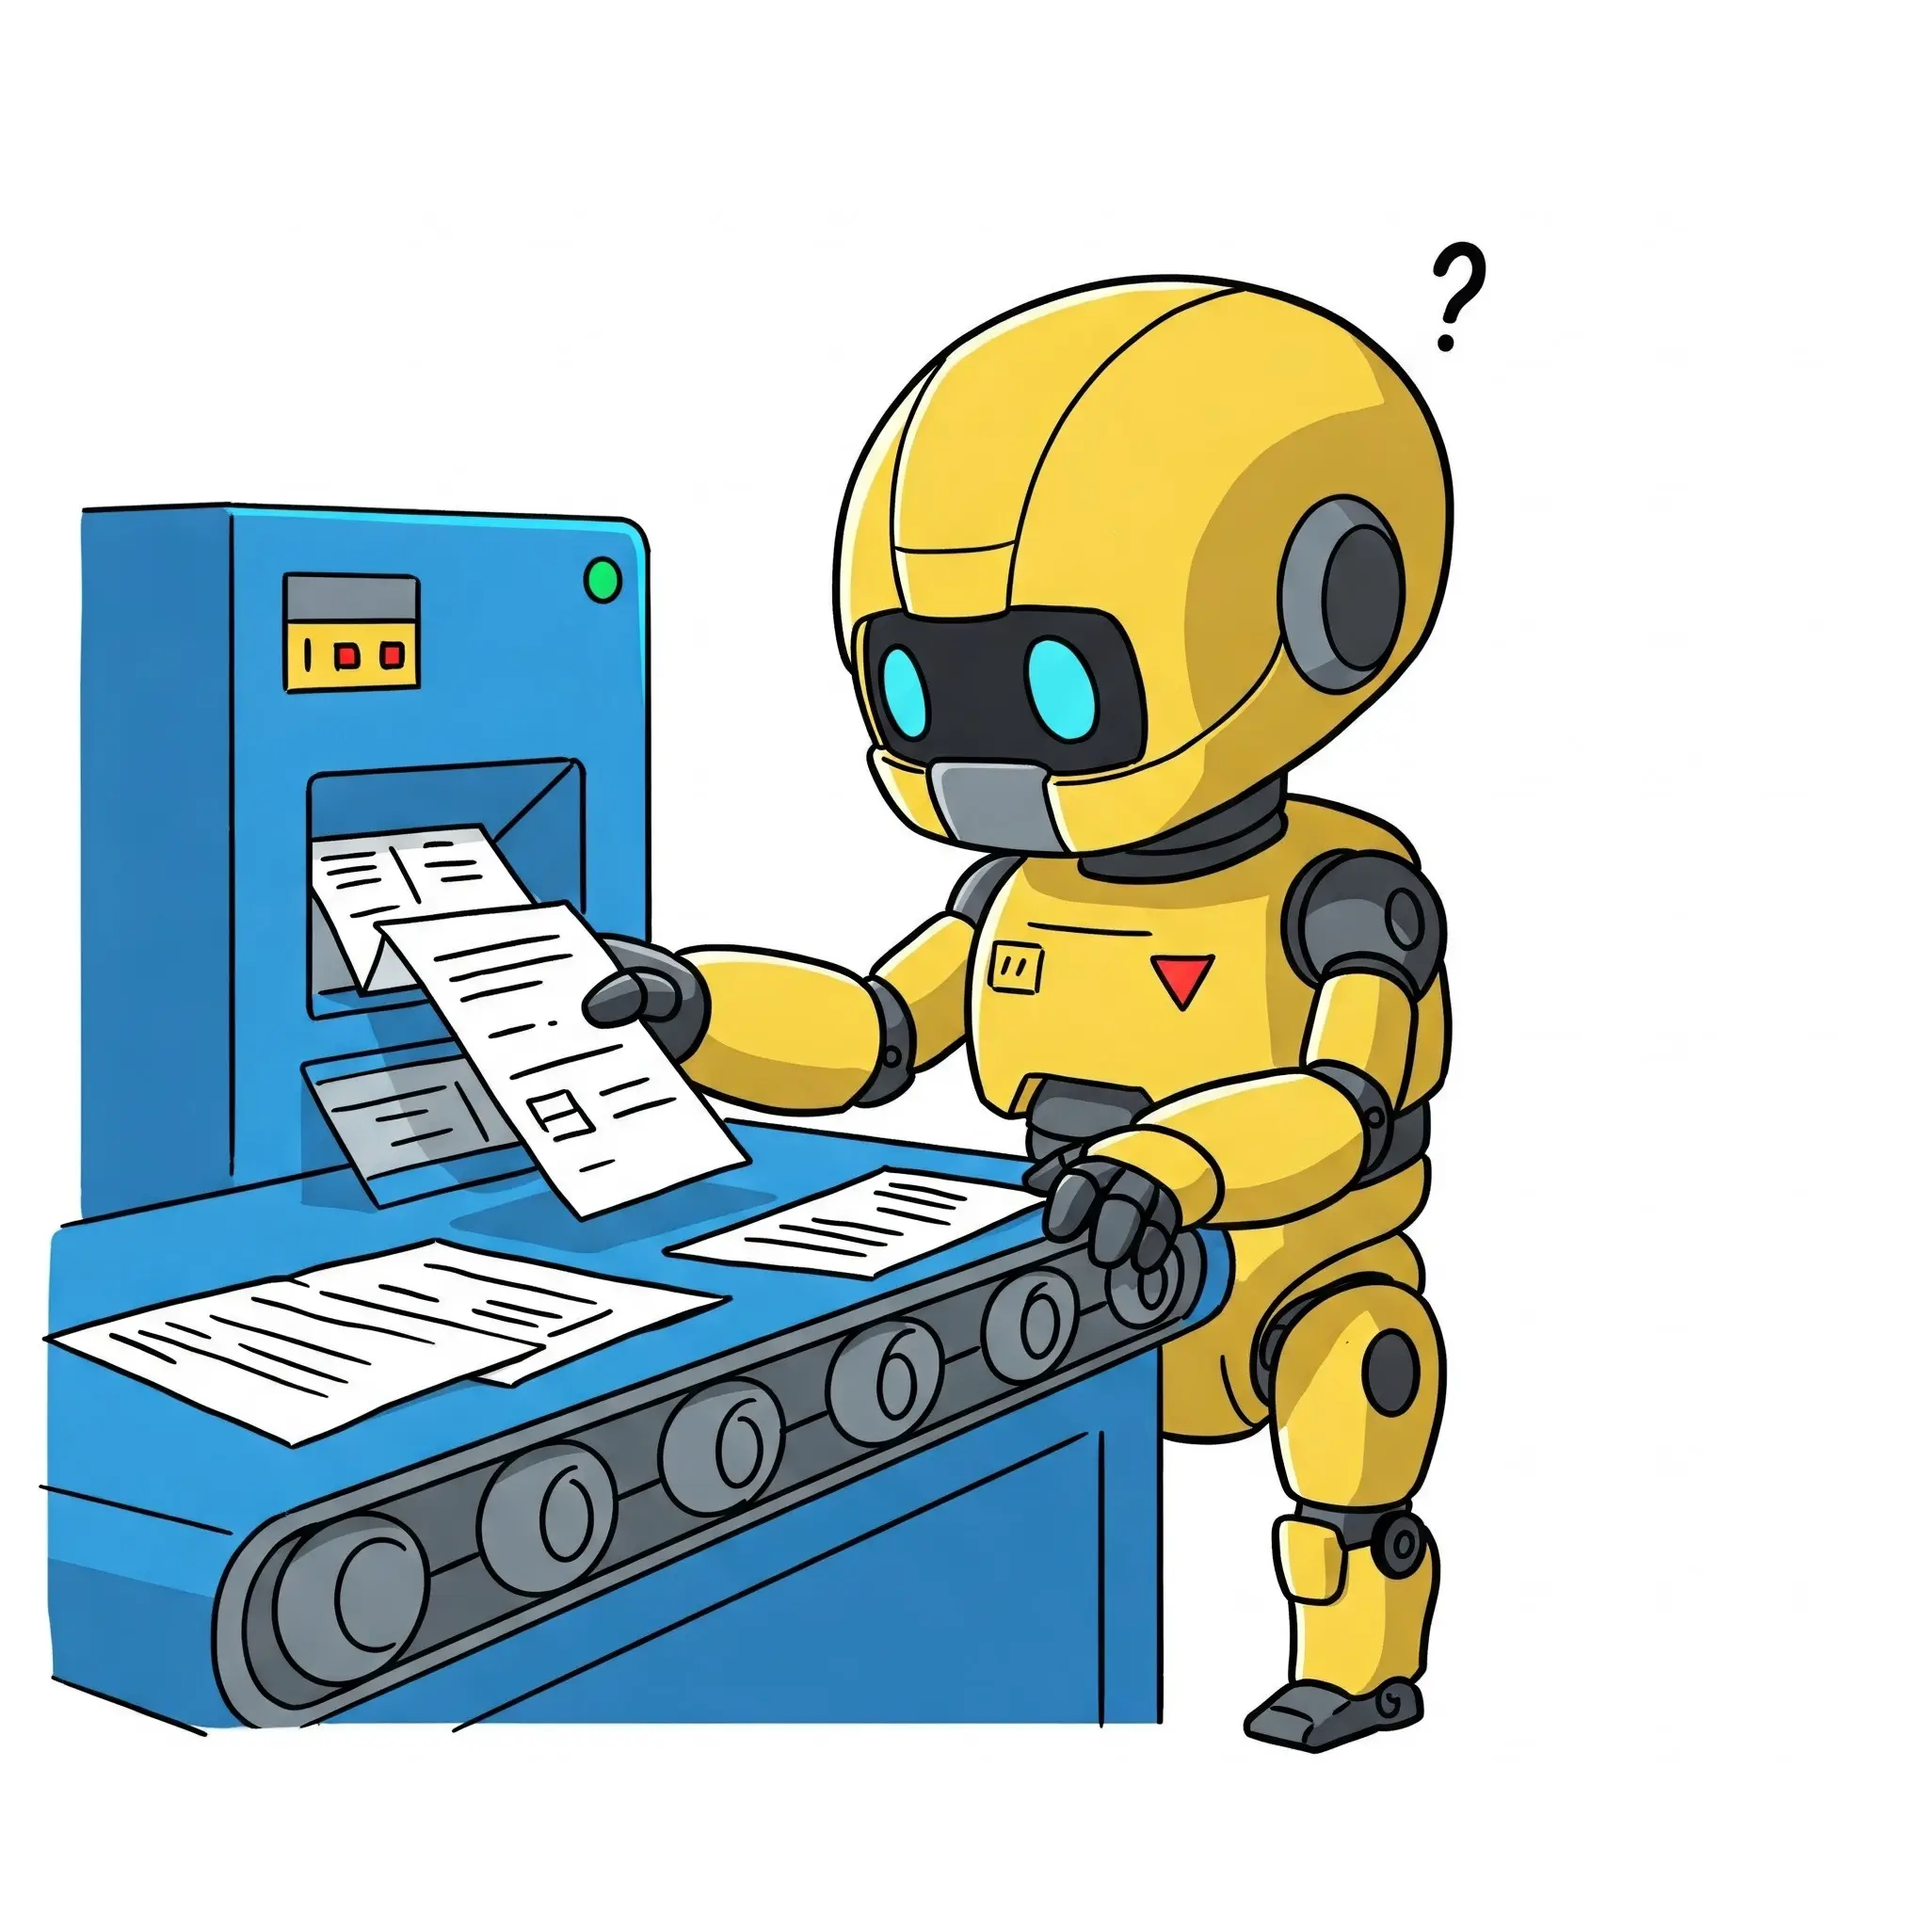
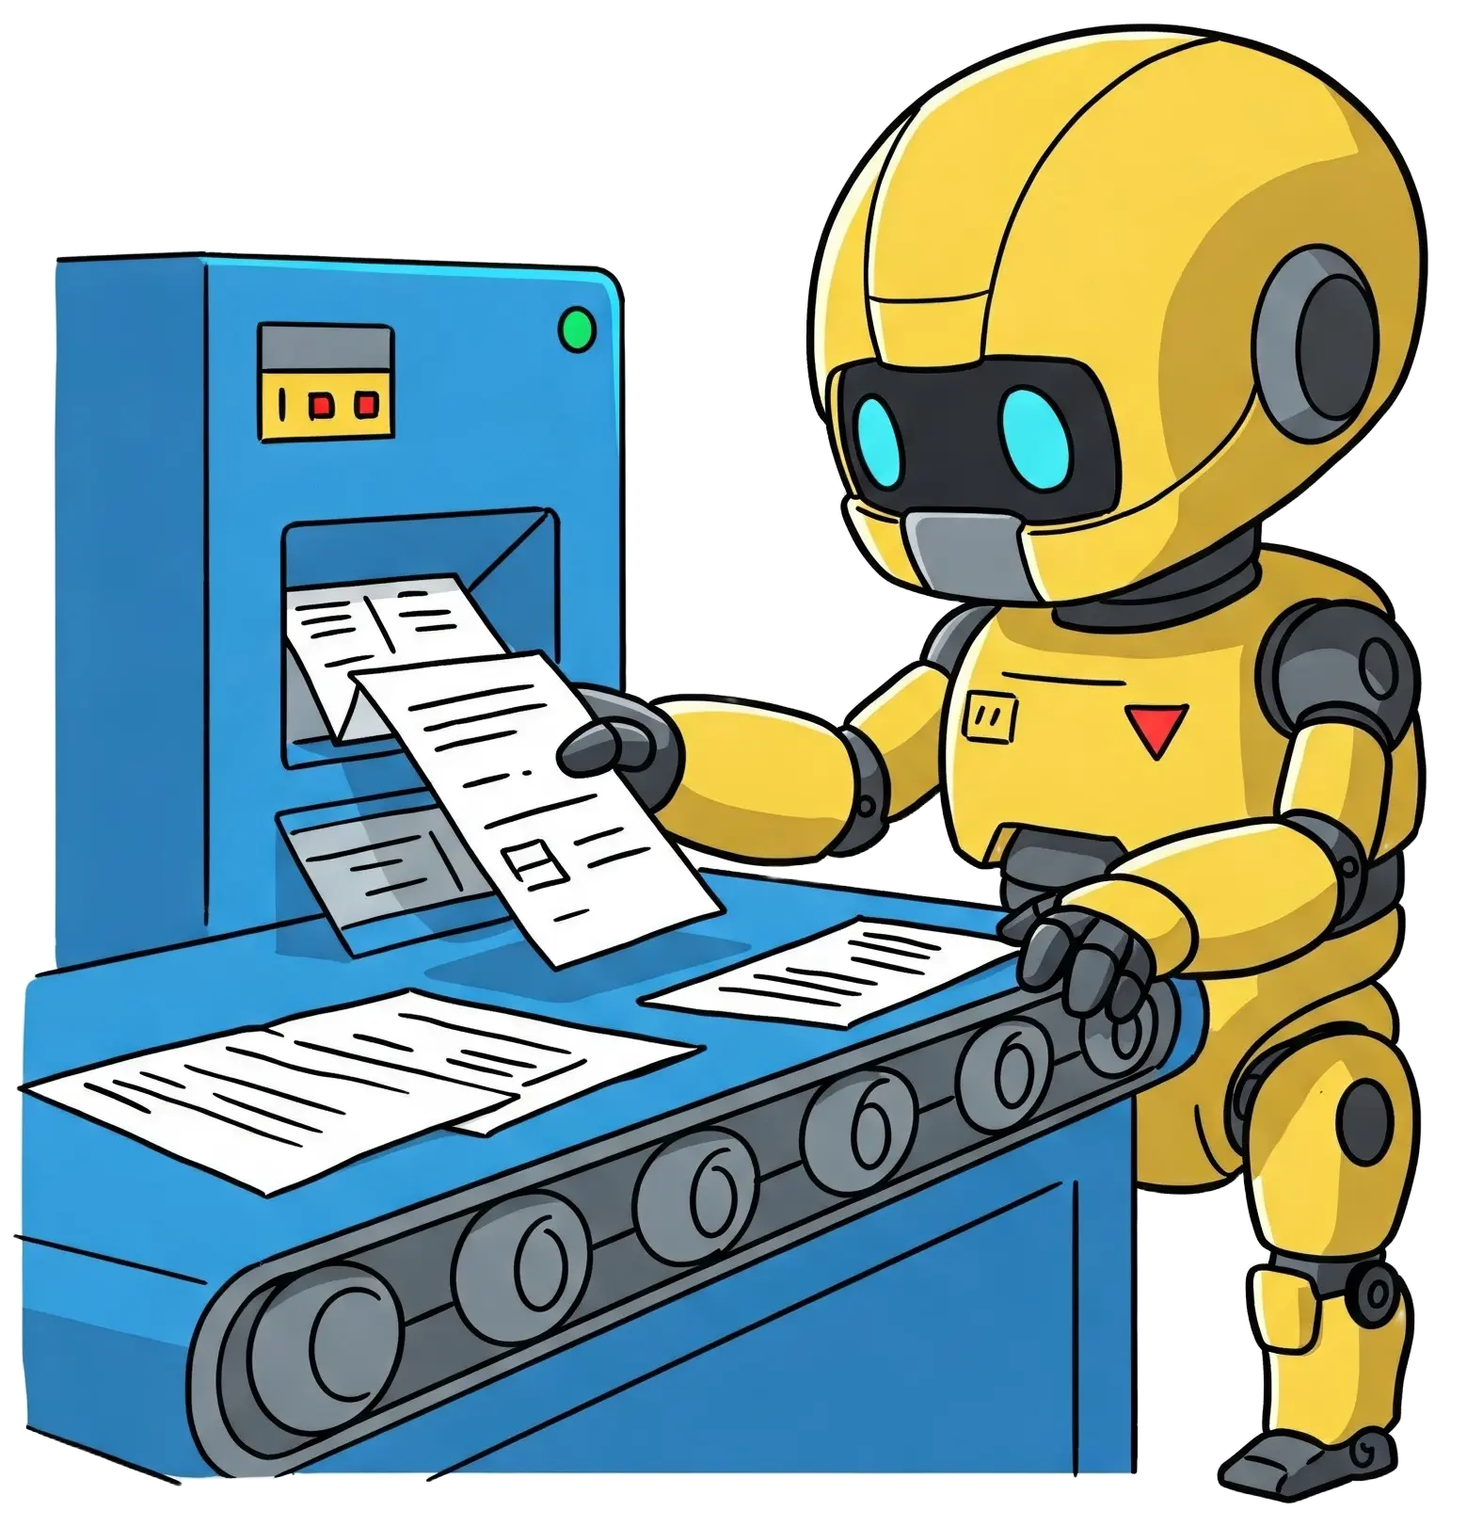
feat: 更新关于页面和首页，添加AI阅读图像以增强视觉效果

diff --git a/website/src/pages/about.md b/website/src/pages/about.md
@@ -3,6 +3,10 @@ layout: ../layouts/AboutLayout.astro
 title: "About"
 ---
 
+<div>
+  <img src="/ai_reading.webp" class="sm:w-1/2 mx-auto" alt="coding dev illustration">
+</div>
+
 Paper Digest is a fully open-sourced project aim to help researchers and students to filter out the papers that they are interested in. 
 
 For the recommendation system part, I simply use strategies similar to those from https://www.scholar-inbox.com:
